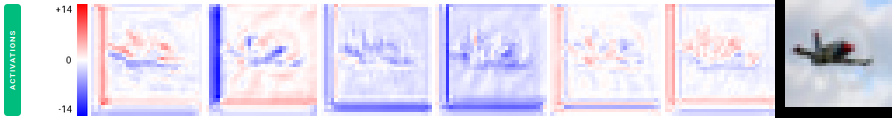
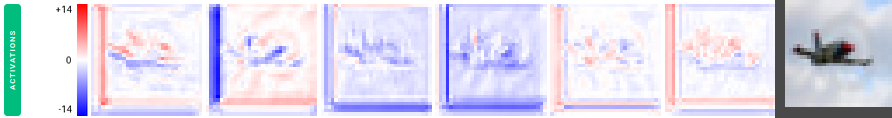
Update README.md

Changed region(s): [[0.8475, 0.0, 1.0, 1.0]]

diff --git a/README.md b/README.md
@@ -4,27 +4,23 @@
 
 <p align="center"><em>Don't guess why your neural network fails to learn. Instead, have a look inside.</em></p>
 
-<p align="center">
-  <img src="assets/showcase.gif" alt="nansense showcase" width="720">
-</p>
+![UI](assets/docs/ui.png)
 
 *Nansense* is a PyTorch debugger that visualizes activations, gradients, weights, optimizer state and various statistics. You can **pause, step batch-by-batch, and time-travel to a different epoch while training**, and see exactly what every layer is doing.
 
 Here's how *nansense* can help:
 
 - **Deepen your intuition** — [visualize activations and gradients](#visualize-activations-and-gradients-throughout-training), [find image patches with minimal or maximal activation for a given channel](#minmax-activation-patches) and [simulate what each neuron is searching for (deep dream)](#simulate-what-a-neuron-is-searching-for-deep-dream)
-- **Spot optimization bottlenecks** — [discover insufficient receptive fields](#measure-receptive-field-of-a-neuron), [measure neuron death](#investigate-dead-neurons) and discover padding artifacts
+- **Spot optimization bottlenecks** — [discover insufficient receptive fields](#measure-receptive-field-of-a-neuron), [measure neuron death](#investigate-dead-neurons) and [discover padding artifacts](#padding-jump-target)
 - **Investigate failure modes** — [spot gradient underflow](#spot-gradient-underflow)
 
 You can easily try out the [examples](#run-examples) yourself. Or wire it into your own training loop. Adding nansense support is just a few lines of code. Here's an example for integrating with [raw PyTorch](#wire-it-into-your-loop-raw-pytorch) and with [Lightning](#wire-it-into-your-loop-pytorch-lightning).
 
 ## How is this different from wandb or TensorBoard?
 
-Loggers like Weights & Biases and TensorBoard answer *what* your metrics did — they record scalar curves of loss and accuracy that you scroll through after the run. Nansense answers *why*: it pauses inside the live training loop and lets you step batch-by-batch and time-travel through the actual activations, gradients, weights and optimizer state of every layer. You can even run experiments on the paused model — deep dream, or Captum attributions like Grad-CAM — to probe what a given neuron has learned.
+Loggers like Weights & Biases and TensorBoard answer *what* your metrics did — they record scalar curves of loss and accuracy that you scroll through after the run. Nansense tries to answer *why*: it pauses inside the live training loop and lets you step batch-by-batch and time-travel while inspecting the activations, gradients, weights and optimizer state of every layer. You can even run experiments on the paused model — deep dream, or Captum attributions like Grad-CAM — to probe what a given neuron has learned.
 
-This is a different approach, not a richer log. A single batch's activations and gradients can run to gigabytes, so persisting them every step the way a logger persists scalars simply isn't feasible. Nansense sidesteps that by pausing and inspecting the tensors in memory, on demand, instead of writing everything to disk.
-
-Think interactive debugger, not metrics dashboard. The two are complementary — keep logging your curves, and reach for nansense when one of them goes wrong and you need to look inside.
+Persisting all this data on disk is infeasible, as a single batch of activations and gradients can easily be several gigabytes. Nansense sidesteps that by pausing and inspecting the tensors on demand, instead of writing everything to disk.
 
 ## Showcase
 
@@ -33,6 +29,8 @@ Think interactive debugger, not metrics dashboard. The two are complementary —
 A layer's activations (top row) and gradients (bottom row) for a single input. Here, an image of a paraglider passes through an intermediate batch normalization layer. Each column is a channel, drawn on a diverging red/blue scale. Step through training to watch what each channel responds to and how strong the backward signal reaching it is.
 
 ![Activations and gradients of an image of a paraglider.](assets/docs/activations_gradients.png)
+
+<a id="padding-jump-target"></a>
 
 Here's another example: Activations of a CIFAR10 layer, with the augmented input shown at the far right. The augmentation zero-pads the image, and that hard border lights up as strong edge activations ringing every channel — an artifact baked in by the padding. Maybe use reflection padding next time?
 
@@ -70,7 +68,7 @@ To measure the receptive field of a neuron, *nansense* has support for perturbin
 
 ### Spot gradient underflow
 
-Not every failure mode has a picture. In low-precision training (fp16) a layer's gradients can collapse into the *subnormal* range — below the dtype's smallest normal value — where precision drains toward zero and the layer quietly stops learning. nansense checks activations and gradients for NaNs, infinities and this subnormal/overflow band every few batches, and pauses with a warning banner once a meaningful share of a layer's gradient magnitude lands there — so you catch the stall instead of guessing.
+In low-precision training (fp16) a layer's gradients can collapse into the *subnormal* range — below the dtype's smallest normal value — where precision drains toward zero and the layer's learning quality quietly drops. *nansense* checks activations and gradients for NaNs, infinities and this subnormal/overflow band every few batches, and pauses with a warning banner once a meaningful share of a layer's gradient magnitude lands there — so you catch the issue.
 
 ## Run examples
 
@@ -108,7 +106,7 @@ If you hit out-of-memory errors, lower `--batch-size`. If training is slow and y
 
 ## UI tutorial
 
-![UI](assets/docs/ui.png)
+![UI](assets/docs/ui_with_elements.png)
 
 When a session starts, nansense serves a web page and pauses on the first batch.
 You drive the run from the top bar: **Step Batch** advances one batch, **Run**
